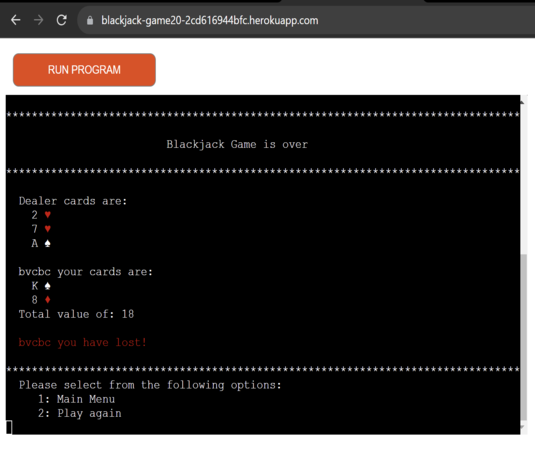
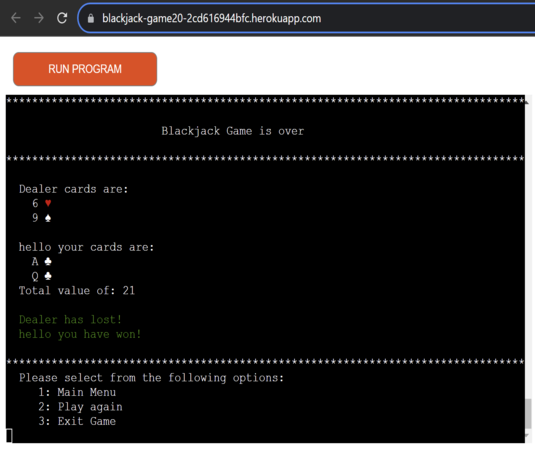
add new images and update readme, check grammar

Changed region(s): [[0.0, 0.0, 1.0, 0.9956]]

diff --git a/README.md b/README.md
@@ -1,6 +1,6 @@
-# **BlackJack Game**
+# **Blackjack Game**
 
-## This is a [Blackjack game](),
+## This is a [Blackjack Game](https://blackjack-game20-2cd616944bfc.herokuapp.com/),
 
 <p> This is a Blackjack game and is targeted for anyone that may want to challenge the dealer
 <p> The objective here is to beat the dealer
@@ -14,12 +14,17 @@
 
 ## **Content**
 
-- [**BlackJack Game**](#blackjack-game)
+- [**Blackjack Game**](#blackjack-game)
   - [User Experience](#user-experience)
   - [Design](#design)
     - [Typography](#typography)
     - [Features](#features)
-      - [Game]()
+      - [Username](#username-container)
+      - [Main Menu](#main-menu-container)
+      - [Instructions](#instructions-container)
+      - [Blackjack Game](#blackjack-game-container)
+      - [Game is Over](#game-is-over-container)
+      - [Exit Game](#exit-game)
   - [Programs and tools used](#programs-and-tools-used)
   - [Languages](#languages)
     - [Python](#python)  
@@ -49,7 +54,7 @@ Visitors:
 Goals:
 
 - The player will have to beat the dealer in order to win
-- You are suppose to have a BLackjack = 21 points or to have as close as possible to 21 points to beat the dealer
+- You are supposed to have a Blackjack = 21 points or to have as close as possible to 21 points to beat the dealer
 - If you lose play again to beat the dealer
 - The main goal is to have fun :)
 
@@ -57,13 +62,13 @@ The game:
 
 - Starting at the beginning with a page asking you to type your username
 - After entering your username, it will take you to a main menu with two options:
-    - INSTRUCTIONS -  to take you to the instructions menu
+    - INSTRUCTIONS - to take you to the instruction's menu
     - START - to start the Blackjack game  
-- If you select the instructions it will take you to another menu where instructions are displayed and two options to select:
+- If you select the instructions, it will take you to another menu where instructions are displayed and two options to select:
     - START - to start the game
     - EXIT - to take you back to main menu  
 - Once you start the game the dealer will give you and himself two cards, the second card from the dealer will be hidden until the game is over
-- The gamne will check for Blackjacks, if there is no Blackjack the game will continue
+- The game will check for Blackjacks, if there is no Blackjack the game will continue
 - Two options will be displayed:
     - HIT - to request another card
     - STAY - to check results
@@ -125,9 +130,10 @@ pip3 freeze > requirements.txt
 - #### Main Menu Container
 
     - Welcome message displayed to the player
-    - Two options displayed for the user to select
+    - Three options displayed for the user to select
         - Instructions
         - Start
+        - Exit Game
       <br>
 
       ![image](assets/images/readme/features/mainmenu.png)
@@ -135,9 +141,10 @@ pip3 freeze > requirements.txt
 - #### Instructions Container
 
     - Instructions displayed for the player to help understand the game
-    - Two options displayed for the user to select
+    - Three options displayed for the user to select
         - Start
-        - Exit
+        - Main Menu
+        - Exit Game
       <br>
 
       ![image](assets/images/readme/features/instructions.png)
@@ -154,13 +161,21 @@ pip3 freeze > requirements.txt
 
 - #### Game is Over Container
 
-    - Once the game is over, the winner is annouced
-    - Two options displayed for the user to select
+    - Once the game is over, the winner is announced
+    - Three options displayed for the user to select
         - Main Menu
         - Play Again
+        - Exit Game
       <br>
 
       ![image](assets/images/readme/features/gameisover.png)
+
+- #### Exit Game
+
+    - A thank you message is displayed
+      <br>
+
+      ![image](assets/images/readme/features/exitgame.png)
 
  
 
@@ -215,7 +230,6 @@ pip3 freeze > requirements.txt
 
 - The Blackjack game has been tested and it works on different types of computers with different browsers:
   - Chrome
-  - Safari
   - Microsoft Edge
   - Firefox
 - It has been tested and work on different mobile phone brands:
@@ -260,8 +274,8 @@ pip3 freeze > requirements.txt
 
 | Feature | Expected Outcome | Testing | Result | Pass or Fail |
 | --- | --- | --- | --- | --- |
-| Title | Welcome to instructions message to the player | Openned instructions | Welcome to instructions message with username in it displayed | pass |
-| Instructions | To display instructions for the player | Openned instructions | Instructions displayed | pass |
+| Title | Welcome to instructions message to the player | Opened instructions | Welcome to instructions message with username in it displayed | pass |
+| Instructions | To display instructions for the player | Opened instructions | Instructions displayed | pass |
 | Input | For user to type number 1 or 2 option | number 5 entered | 'Please select a number from the options:' message displayed | pass |
 | Input | For user to type number 1 or 2 option | Blank spaces entered | 'Invalid Input Entered' message displayed | pass |
 | Input | For user to type number 1 or 2 option | letters entered | 'Invalid Input Entered' message displayed | pass |
@@ -290,7 +304,7 @@ pip3 freeze > requirements.txt
 | Input | For user to type number 1 or 2 option | Blank spaces entered | 'Invalid Input Entered' message displayed | pass |
 | Input | For user to type number 1 or 2 option | letters entered | 'Invalid Input Entered' message displayed | pass |
 | Input | For user to type number 1 Main menu option | option 1 entered | value taken and go back to main menu | pass |
-| Input | For user to type number 2 Start again option | option 2 entered | value taken and Start the game again | pass |
+| Input | For user to type number 2 Start again option | option 2 entered | value taken and start the game again | pass |
 | Input | For user to type number 3 Exit Game option | option 3 entered | value taken and Exit Game | pass |
 
  <br>
@@ -302,7 +316,7 @@ pip3 freeze > requirements.txt
 ## Bugs
 
 - The game had a bug at the end where the score was being shown, the winner/loser message was being displayed duplicate
-    - I have moved the ```self.winnerCheck(cardDealerHand, userHand, gameOver=True)``` to after of the loop
+    - I have moved the ```self.winnerCheck(cardDealerHand, userHand, True)``` to after of the loop
 - 
     - 
 - 
@@ -338,7 +352,7 @@ pip3 freeze > requirements.txt
 #### Fork the repository
 
   1. Open Github.
-  2. Log in or Sign up.
+  2. Log in or sign up.
   3. Look for my repository [Blackjack](https://github.com/b1ndark/project3).
   4. Last on the right corner you will find the fork button(click on it).
 
@@ -347,7 +361,7 @@ pip3 freeze > requirements.txt
   1. Open Github
   2. Log in or Sign up
   3. Look for my repository [Blackjack](https://github.com/b1ndark/project3)
-  4. Look for code button next to the gitpod button at the top right(click on it).
+  4. Look for code button next to the Gitpod button at the top right(click on it).
   5. A window will pop up with options for you to select to clone it with such as HTTPS, SSH or GitHub CLI.
   6. Once selected copy the link that is shown.
   7. Open your code editor terminal.
@@ -356,11 +370,11 @@ pip3 freeze > requirements.txt
 
 #### Heroku deployment
 
-  1. Within your opened project in codeanywhere or gitpod you will have to freeze requirements.txt file  
+  1. Within your opened project in Codeanywhere or Gitpod you will have to freeze requirements.txt file  
     - Type the command "pip3 freeze > requirements.txt"
   2. Make sure you commit and push it
   3. Open and login to your Heroku account
-  4. Once your dashboard opens, on the top right hand corner click on New and than on the Create new app
+  4. Once your dashboard opens, on the top right-hand corner click on New and then on the Create new app
   5. Give your app a name and select the location
   6. Once created, the app dashboard will open.
   7. Select Settings tab
@@ -371,7 +385,7 @@ pip3 freeze > requirements.txt
   11. Go down to Deployment method and select GitHub
   12. Connect to your GitHub and enter the repository
   13. Once is connected you can either have automatic or manual deployment
-  14. Choose your prefered one by pressing deploy
+  14. Choose your preferred one by pressing deploy
 
 
 [Back to the top](#blackjack-game)
@@ -382,7 +396,7 @@ pip3 freeze > requirements.txt
 
 - ### Content
 
-    - To import colorama I have followed Python Package Index and also watched a tutorial on youtube to help me understand and learn, I will leave the links below:
+    - To import colorama I have followed Python Package Index and also watched a tutorial on Youtube to help me understand and learn, I will leave the links below:
       - [Python Package Index](https://pypi.org/project/colorama/)
       - [TechWithTim](https://www.youtube.com/watch?v=u51Zjlnui4Y&ab_channel=TechWithTim)
       
